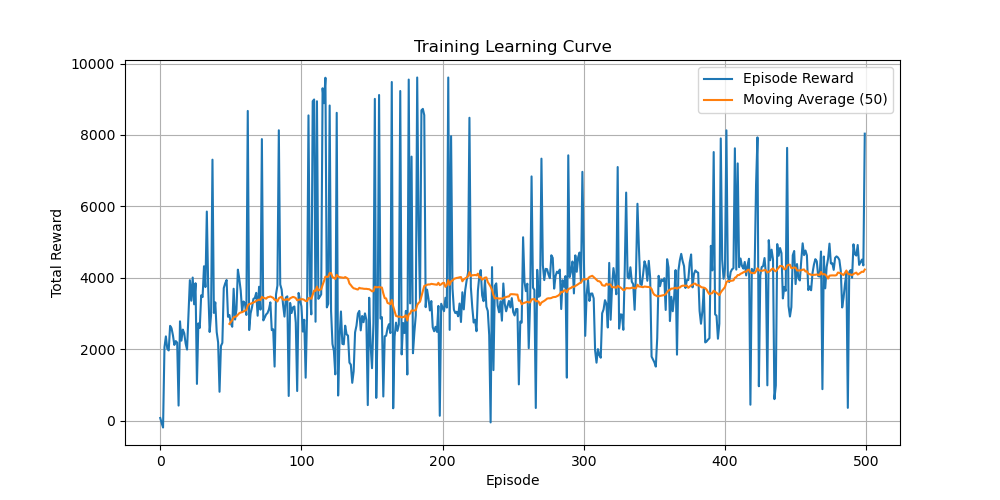
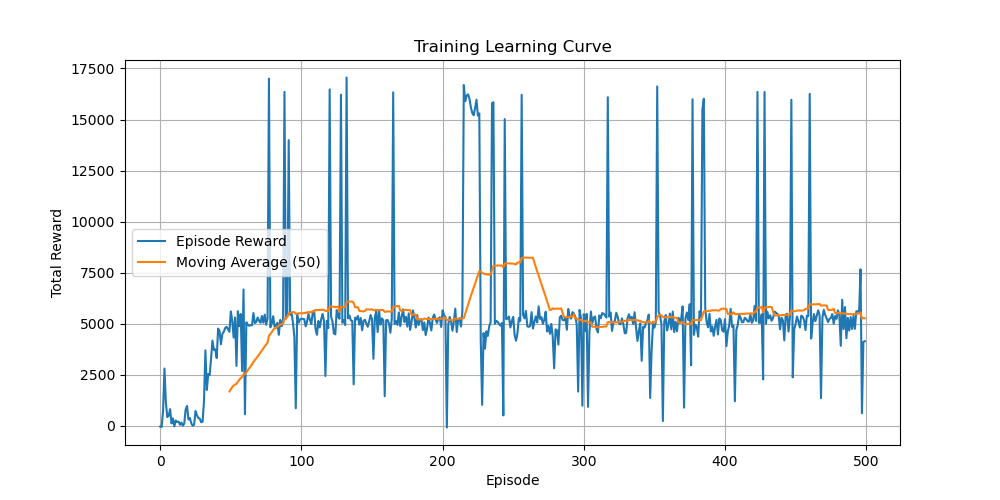
2nd Commit

diff --git a/ai_tutor_rl/api.py b/ai_tutor_rl/api.py
@@ -43,23 +43,45 @@ ACTION_MAP = {
     4: ("Next Topic", "Advance to the next topic.")
 }
 
+@app.get("/recommend")
+def recommend_info():
+    return {"message": "Please use POST method with StudentState body to get recommendations."}
+
 @app.post("/recommend", response_model=Recommendation)
 def get_recommendation(state: StudentState):
     """
     Get the next best tutoring action based on student state.
     """
-    # Convert state to numpy array matching observation space
+    # Convert state to numpy array matching observation space (NORMALIZED)
     obs = np.array([
-        state.current_topic,
+        state.current_topic / float(NUM_TOPICS),
         state.current_difficulty,
-        state.last_score,
-        state.last_time,
-        state.consecutive_failures,
+        state.last_score / 10.0,
+        state.last_time / 60.0,
+        state.consecutive_failures / 5.0,
         state.engagement
     ], dtype=np.float32)
     
-    # Get action from agent (deterministic for deployment)
-    action = agent.act(obs, epsilon=0.0)
+    # Hybrid Logic: Rule-Based Overrides + RL Agent
+    # If the decision is obvious, don't trust the potentially unstable RL agent.
+    
+    action = None
+    
+    # Rule 1: Mastered Topic -> Move Next
+    if state.last_score >= 9.0 and state.current_difficulty >= 0.8:
+         action = 4 # Next Topic
+         
+    # Rule 2: Cruising -> Increase Difficulty
+    elif state.last_score >= 8.0 and state.current_difficulty < 0.9:
+        action = 1 # Harder Question
+        
+    # Rule 3: Struggling -> Decrease Difficulty (RL is usually good at this too)
+    elif state.consecutive_failures >= 2 or (state.last_score < 4.0 and state.current_difficulty > 0.2):
+        action = 0 # Easier Question
+
+    # Fallback to RL Agent if no obvious rule applies
+    if action is None:
+        action = agent.get_action(obs, eval_mode=True)
     
     # Map to human-readable format
     name, desc = ACTION_MAP.get(action, ("Unknown", "Unknown Action"))

diff --git a/ai_tutor_rl/src/env.py b/ai_tutor_rl/src/env.py
@@ -147,12 +147,20 @@ class StudentEnv(gym.Env):
             if is_correct:
                 # Base reward for correct answer, scaled by difficulty
                 # Easy questions give less reward than hard ones
-                reward += 10 * (1 + self.current_difficulty) 
+                reward += 20 * (1 + self.current_difficulty) 
             else:
-                reward -= 1 # Slight penalty for wrong answer
+                reward -= 0.5 # Reduced penalty for wrong answer
         
         if knowledge_gain > 0.01:
             reward += 50 * knowledge_gain # Scale up small float gain
+        
+        # Penalize reducing difficulty if student is doing well
+        if action == 0 and self.last_score > 7:
+            reward -= 100 # Massive penalty: NEVER make it easier for a smart student
+        
+        # Reward increasing difficulty if student is cruising
+        if action == 1 and self.last_score > 8:
+            reward += 30
             
         if self.consecutive_failures > 2:
             reward -= 5
@@ -182,7 +190,7 @@ class StudentEnv(gym.Env):
         # If knowledge in current topic is very high (>0.95), and we are not moving (Action 4), give penalty
         if self.student.knowledge[self.current_topic] > 0.95 and action != 4:
             if self.current_topic < self.num_topics - 1:
-                reward -= 20 # Massive penalty
+                reward -= 50 # Massive penalty for stagnating
 
         observation = self._get_obs()
         

diff --git a/ai_tutor_rl/src/student.py b/ai_tutor_rl/src/student.py
@@ -31,7 +31,7 @@ class StudentSimulator:
         score = (difficulty * 10) if is_correct else 0
         
         # Time taken: harder questions take longer. Higher knowledge reduces time.
-        base_time = 30  # seconds
+        base_time = 20  # seconds (Reduced from 30 to make students faster)
         time_taken = base_time * (1 + difficulty) * (1 - topic_knowledge * 0.5)
         # Add some noise
         time_taken += np.random.normal(0, 5)
@@ -47,7 +47,7 @@ class StudentSimulator:
         Update student's knowledge and engagement based on the attempt.
         """
         # Learning: if correct and difficult, learn more. If incorrect, learn from mistake (less).
-        learning_rate = 0.15
+        learning_rate = 0.25 # Increased from 0.15 to accelerate learning
         if is_correct:
             # Learning gain proportional to difficulty
             gain = learning_rate * difficulty * self.engagement
